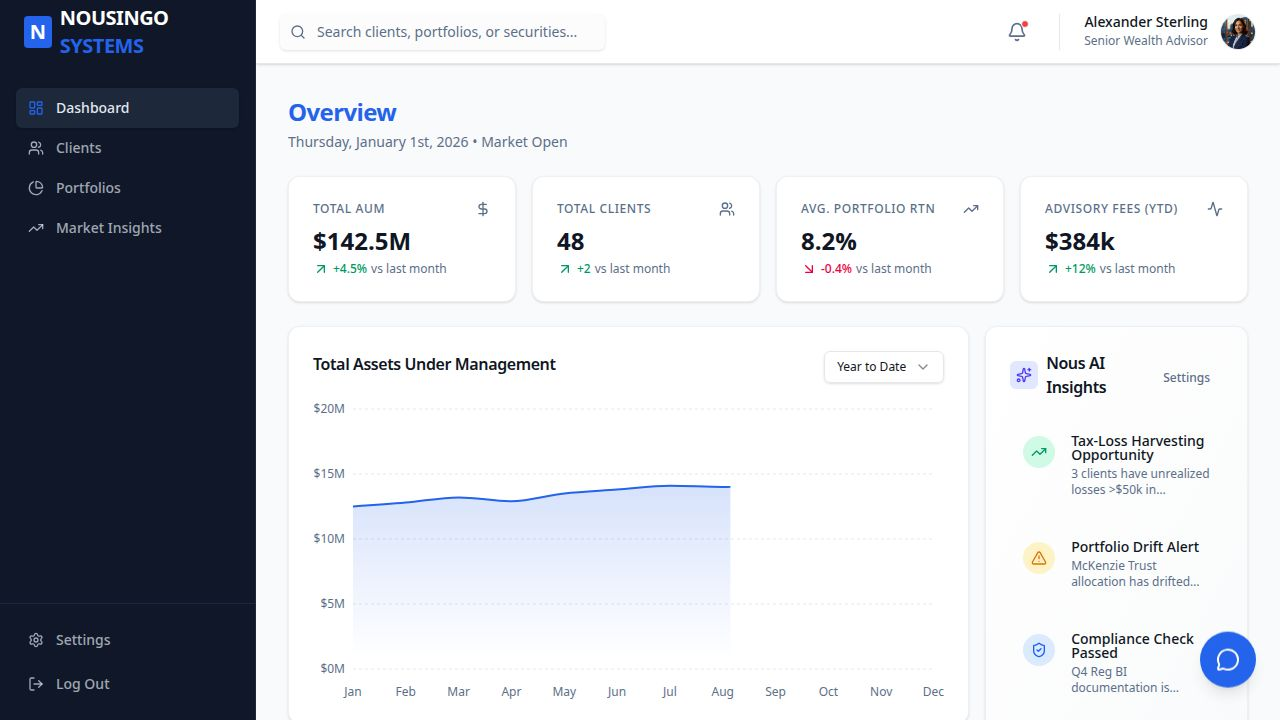
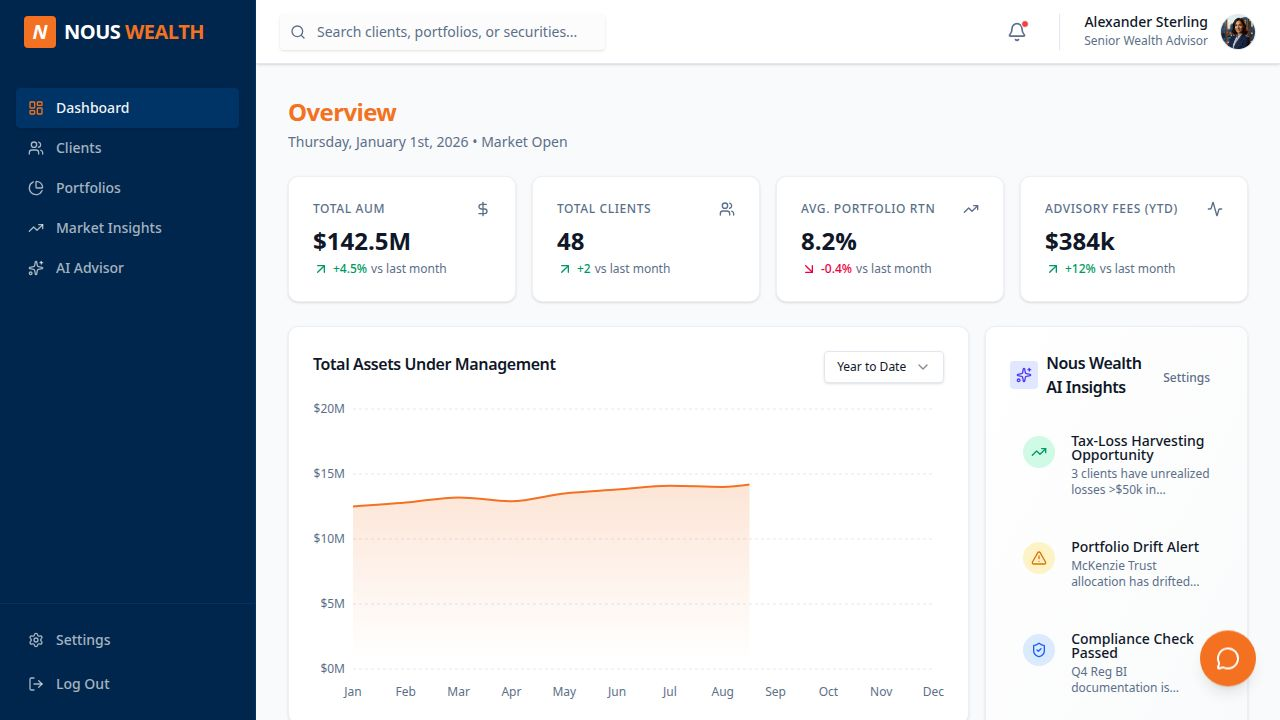
Add AI advisor for application and wealth management support
Integrates AI Advisor into the application with a new route, sidebar link, and enhanced conversational capabilities for user guidance and wealth strategy advice.

Replit-Commit-Author: Agent
Replit-Commit-Session-Id: 5463aeda-b93e-4c4f-bbbd-e3bf2a2152ed
Replit-Commit-Checkpoint-Type: full_checkpoint
Replit-Commit-Event-Id: f7d1081e-a61e-488f-87bc-cad17e01667a
Replit-Commit-Screenshot-Url: https://storage.googleapis.com/screenshot-production-us-central1/6e5391a4-da30-406e-873e-a86692aaef9a/5463aeda-b93e-4c4f-bbbd-e3bf2a2152ed/sdoERb5
Replit-Helium-Checkpoint-Created: true

diff --git a/client/src/pages/AIAdvisor.tsx b/client/src/pages/AIAdvisor.tsx
@@ -17,7 +17,10 @@ const sampleResponses = [
   "I've identified a tax-loss harvesting opportunity in your McKenzie Trust account that could offset $50k+ in gains.",
   "Your fixed income allocation is underperforming. Consider adjusting the duration to capture higher yields in the current rate environment.",
   "Portfolio drift detected: Your allocation has shifted 7% from target. Would you like me to generate a rebalancing recommendation?",
-  "I found 3 clients with concentrated positions in Energy sector. Diversification could reduce their idiosyncratic risk by ~15%."
+  "I found 3 clients with concentrated positions in Energy sector. Diversification could reduce their idiosyncratic risk by ~15%.",
+  "To use this dashboard: Use the 'Portfolios' tab to view specific asset breakdowns, or 'Market' for real-time data feeds. I can analyze any view you're currently on.",
+  "Wealth support: I can help with retirement planning, estate tax optimization, and intergenerational wealth transfer strategies. What's your primary goal?",
+  "To manage your client list, navigate to the 'Clients' section. You can filter by AUM, risk profile, or upcoming review dates."
 ];
 
 export default function AIAdvisor() {
@@ -25,7 +28,7 @@ export default function AIAdvisor() {
     {
       id: "1",
       type: "assistant",
-      content: "Hello! I'm Nous, your AI wealth management assistant. I can help you analyze portfolios, identify optimization opportunities, monitor client accounts, and provide real-time market insights. What would you like to explore today?",
+      content: "Hello! I'm Nous, your AI wealth management assistant. I can help you navigate this application and provide specialized wealth support. Whether you need help analyzing portfolios or understanding specific features like tax-loss harvesting, I'm here to guide you. How can I assist you today?",
       timestamp: new Date(),
     },
   ]);

diff --git a/client/src/App.tsx b/client/src/App.tsx
@@ -8,6 +8,7 @@ import Dashboard from "@/pages/Dashboard";
 import Clients from "@/pages/Clients";
 import Portfolios from "@/pages/Portfolios";
 import Market from "@/pages/Market";
+import AIAdvisor from "@/pages/AIAdvisor";
 import NotFound from "@/pages/not-found";
 
 // Placeholder page for settings
@@ -21,6 +22,7 @@ function Router() {
         <Route path="/clients" component={Clients} />
         <Route path="/portfolios" component={Portfolios} />
         <Route path="/market" component={Market} />
+        <Route path="/advisor" component={AIAdvisor} />
         <Route path="/settings" component={Settings} />
         <Route component={NotFound} />
       </Switch>

diff --git a/client/src/components/layout/Sidebar.tsx b/client/src/components/layout/Sidebar.tsx
@@ -5,6 +5,7 @@ import {
   Users, 
   PieChart, 
   TrendingUp, 
+  Sparkles,
   Settings, 
   LogOut 
 } from "lucide-react";
@@ -14,6 +15,7 @@ const sidebarLinks = [
   { icon: Users, label: "Clients", href: "/clients" },
   { icon: PieChart, label: "Portfolios", href: "/portfolios" },
   { icon: TrendingUp, label: "Market Insights", href: "/market" },
+  { icon: Sparkles, label: "AI Advisor", href: "/advisor" },
 ];
 
 export function Sidebar() {
